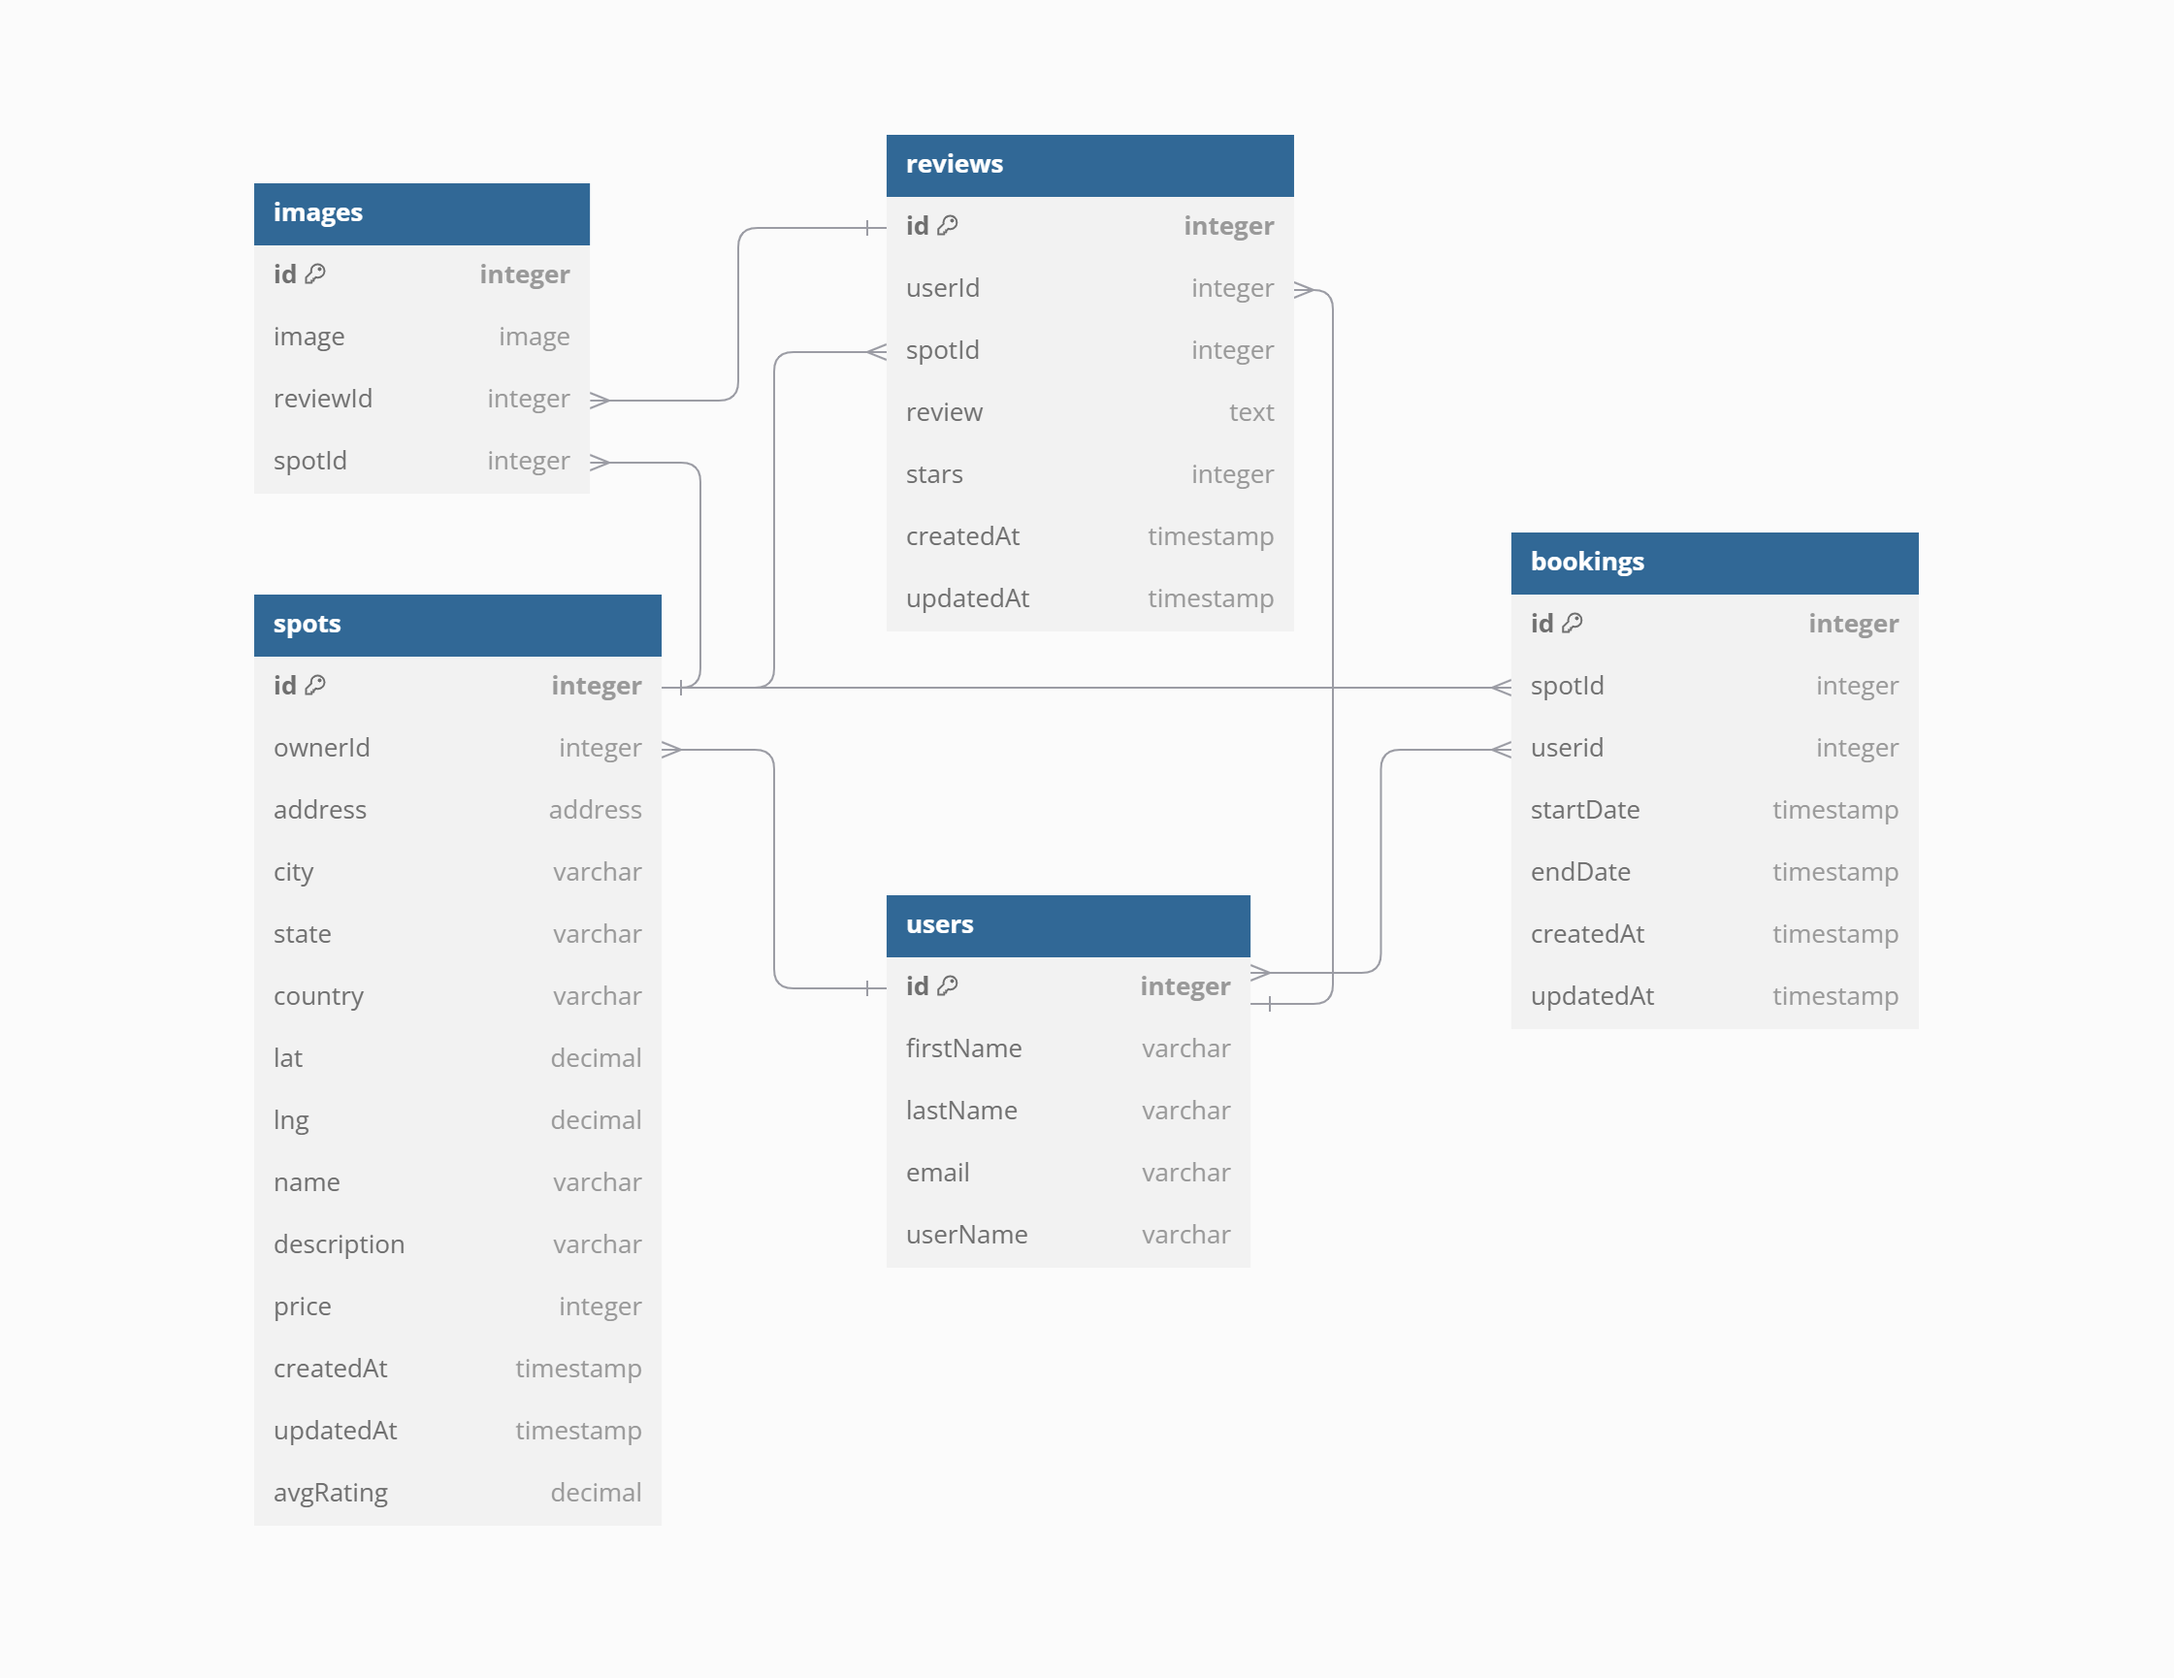
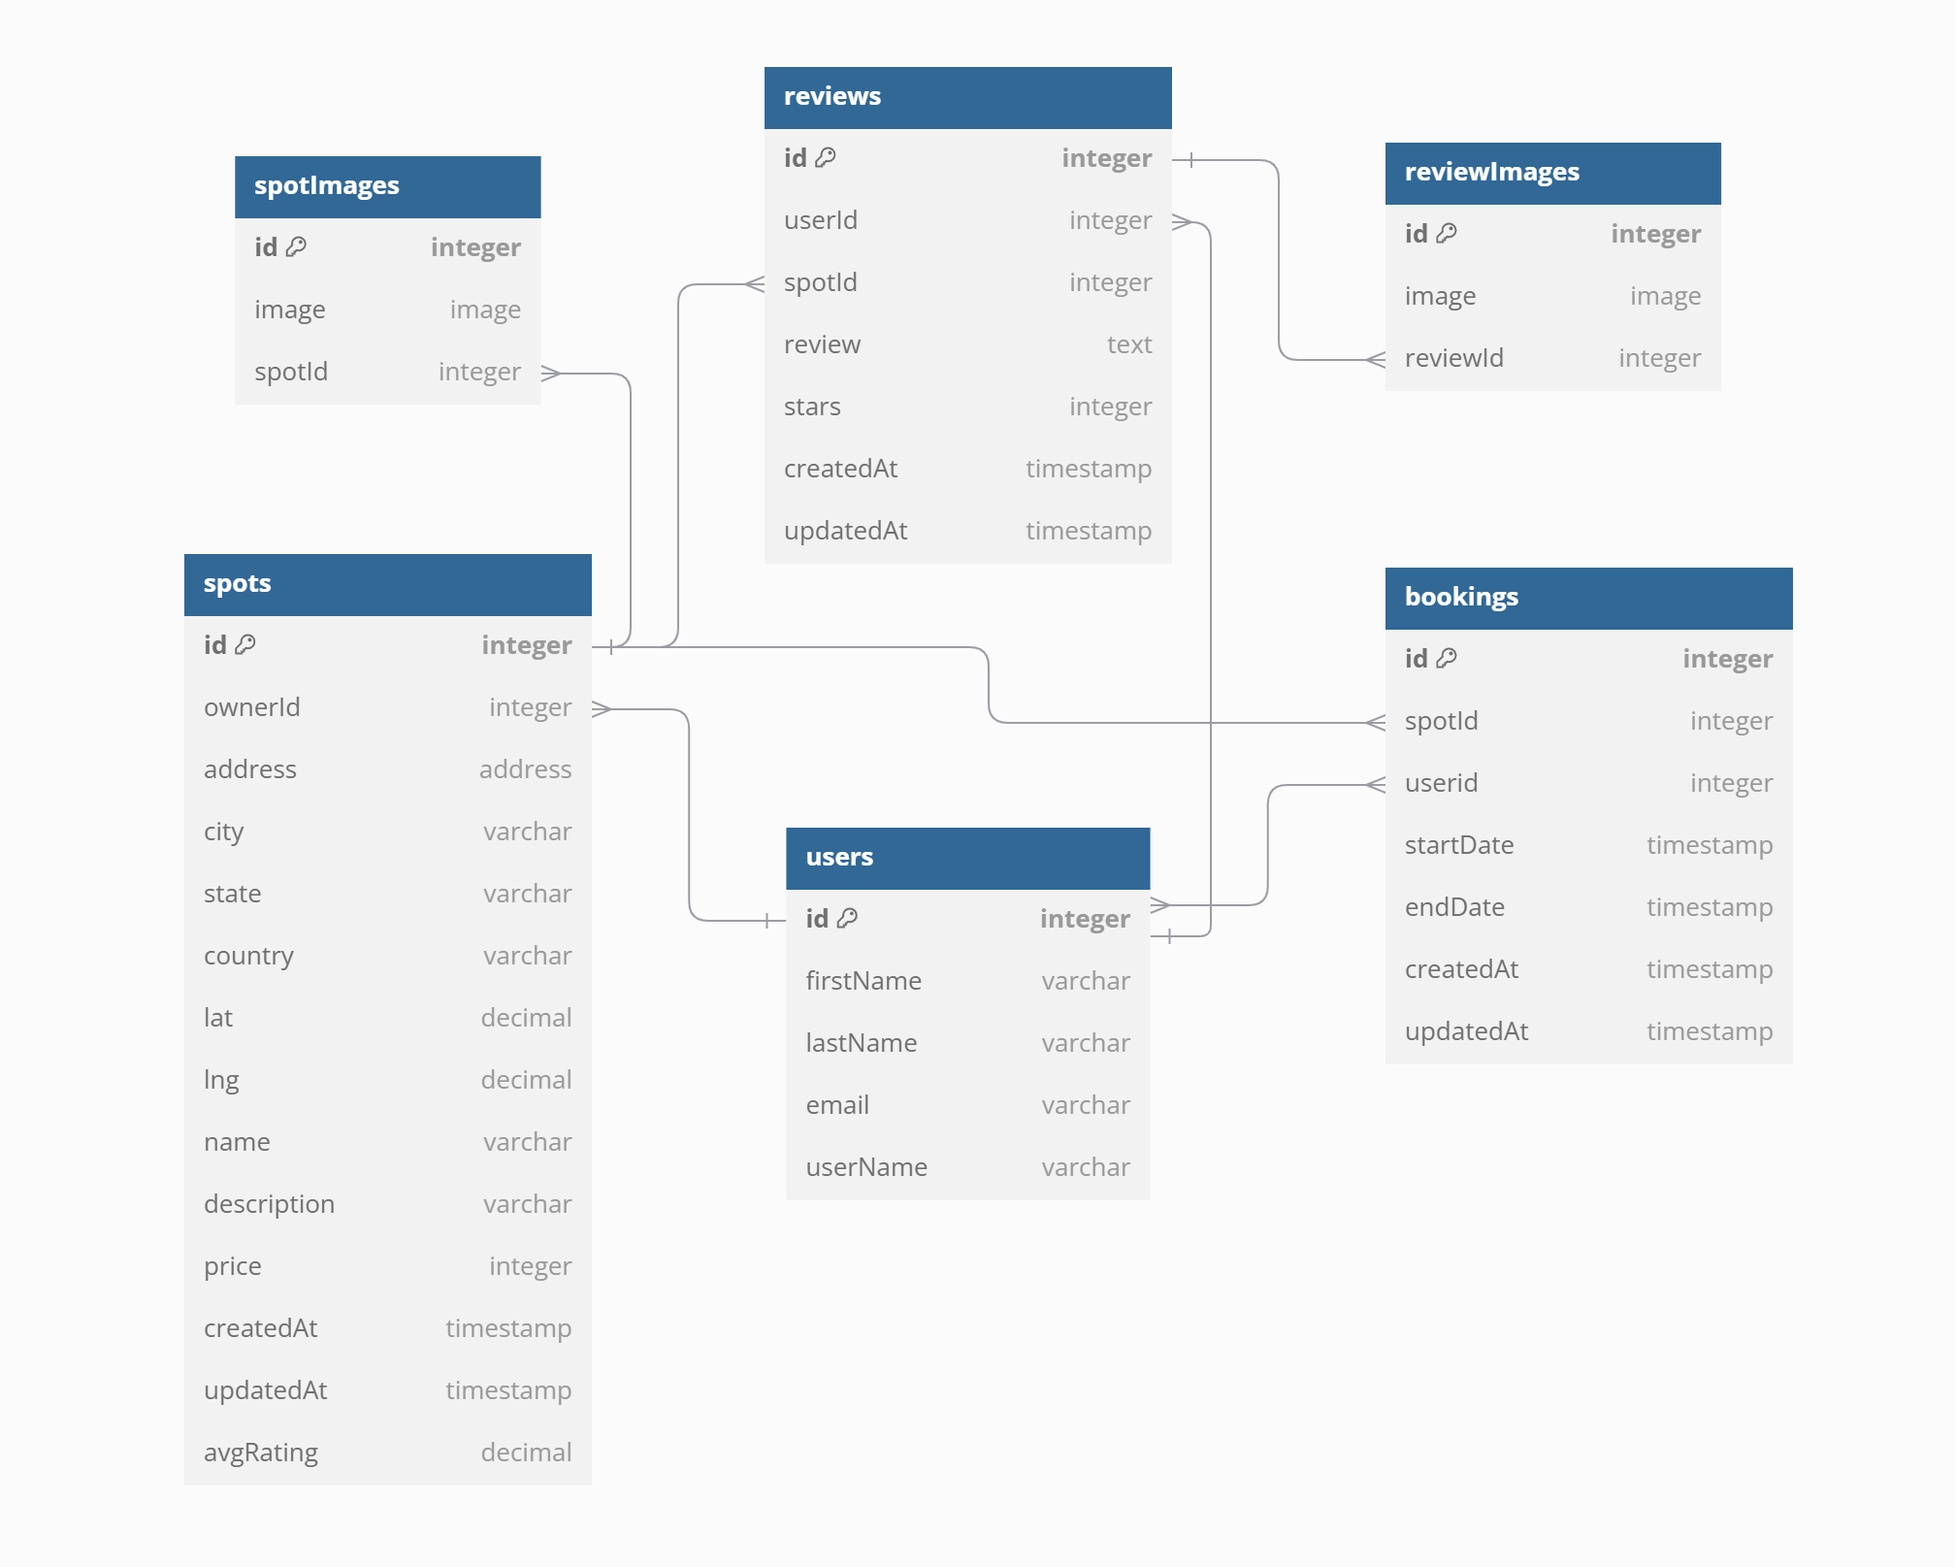
change the db schema and made some changes to the api doc to match the schema

diff --git a/README.md b/README.md
@@ -51,8 +51,8 @@ Returns the information about the current user that is logged in.
 
 * Require Authentication: false
 * Request
-  * Method: GET ?
-  * Route path: /users/:userId ?
+  * Method: GET
+  * Route path: /users/:userId
   * Body: none
 
 * Successful Response when there is a logged in user
@@ -92,8 +92,8 @@ information.
 
 * Require Authentication: false
 * Request
-  * Method: POST ?
-  * Route path: /login ?
+  * Method: POST
+  * Route path: /login
   * Headers:
     * Content-Type: application/json
   * Body:
@@ -158,8 +158,8 @@ user's information.
 
 * Require Authentication: false
 * Request
-  * Method: POST ?
-  * Route path: /signup ?
+  * Method: POST
+  * Route path: /signup
   * Headers:
     * Content-Type: application/json
   * Body:
@@ -234,8 +234,8 @@ Returns all the spots.
 
 * Require Authentication: false
 * Request
-  * Method: GET ?
-  * Route path: /spots ?
+  * Method: GET
+  * Route path: /spots
   * Body: none
 
 * Successful Response
@@ -274,8 +274,8 @@ Returns all the spots owned (created) by the current user.
 
 * Require Authentication: true
 * Request
-  * Method: GET ?
-  * Route path: /users/:userId/spots ?
+  * Method: GET
+  * Route path: /users/:userId/spots
   * Body: none
 
 * Successful Response
@@ -314,8 +314,8 @@ Returns the details of a spot specified by its id.
 
 * Require Authentication: false
 * Request
-  * Method: GET ?
-  * Route path: /spots/:spotId ?
+  * Method: GET
+  * Route path: /spots/:spotId
   * Body: none
 
 * Successful Response
@@ -379,8 +379,8 @@ Creates and returns a new spot.
 
 * Require Authentication: true
 * Request
-  * Method: POST ?
-  * Route path: /spots ?
+  * Method: POST
+  * Route path: /spots
   * Headers:
     * Content-Type: application/json
   * Body:
@@ -453,8 +453,8 @@ Create and return a new image for a spot specified by id.
 * Require Authentication: true
 * Require proper authorization: Spot must belong to the current user
 * Request
-  * Method: POST?
-  * Route path: /spots/:spotId/images ?
+  * Method: POST
+  * Route path: /spots/:spotId/spotImages
   * Headers:
     * Content-Type: application/json
   * Body:
@@ -499,8 +499,8 @@ Updates and returns an existing spot.
 * Require Authentication: true
 * Require proper authorization: Spot must belong to the current user
 * Request
-  * Method: PATCH ?
-  * Route path: /spots/:spotId?
+  * Method: PATCH
+  * Route path: /spots/:spotId
   * Headers:
     * Content-Type: application/json
   * Body:
@@ -585,8 +585,8 @@ Deletes an existing spot.
 * Require Authentication: true
 * Require proper authorization: Spot must belong to the current user
 * Request
-  * Method: DELETE ?
-  * Route path: /spots/:spotId ?
+  * Method: DELETE
+  * Route path: /spots/:spotId
   * Body: none
 
 * Successful Response
@@ -621,8 +621,8 @@ Returns all the reviews written by the current user.
 
 * Require Authentication: true
 * Request
-  * Method: GET ?
-  * Route path: /users/:userId/reviews ?
+  * Method: GET
+  * Route path: /users/:userId/reviews
   * Body: none
 
 * Successful Response
@@ -677,8 +677,8 @@ Returns all the reviews that belong to a spot specified by id.
 
 * Require Authentication: false
 * Request
-  * Method: GET ?
-  * Route path: /spots/:spotId/reviews?
+  * Method: GET
+  * Route path: /spots/:spotId/reviews
   * Body: none
 
 * Successful Response
@@ -732,8 +732,8 @@ Create and return a new review for a spot specified by id.
 
 * Require Authentication: true
 * Request
-  * Method: POST ?
-  * Route path: /spots/:spotId/reviews ?
+  * Method: POST
+  * Route path: /spots/:spotId/reviews
   * Headers:
     * Content-Type: application/json
   * Body:
@@ -810,8 +810,8 @@ Create and return a new image for a review specified by id.
 * Require Authentication: true
 * Require proper authorization: Review must belong to the current user
 * Request
-  * Method: POST ?
-  * Route path: /reviews/:reviewId/images ?
+  * Method: POST
+  * Route path: /reviews/:reviewId/reviewImages
   * Headers:
     * Content-Type: application/json
   * Body:
@@ -867,8 +867,8 @@ Update and return an existing review.
 * Require Authentication: true
 * Require proper authorization: Review must belong to the current user
 * Request
-  * Method: PUT ?
-  * Route path: /reviews/:reviewsId ?
+  * Method: PUT
+  * Route path: /reviews/:reviewsId
   * Headers:
     * Content-Type: application/json
   * Body:
@@ -933,8 +933,8 @@ Delete an existing review.
 * Require Authentication: true
 * Require proper authorization: Review must belong to the current user
 * Request
-  * Method: DELETE ?
-  * Route path: /reviews/:reviewId ?
+  * Method: DELETE
+  * Route path: /reviews/:reviewId
   * Body: none
 
 * Successful Response
@@ -969,8 +969,8 @@ Return all the bookings that the current user has made.
 
 * Require Authentication: true
 * Request
-  * Method: GET ?
-  * Route path: users/:userId/bookings ?
+  * Method: GET
+  * Route path: users/:userId/bookings
   * Body: none
 
 * Successful Response
@@ -1014,8 +1014,8 @@ Return all the bookings for a spot specified by id.
 
 * Require Authentication: true
 * Request
-  * Method: GET ?
-  * Route path: /spots/:spotId/bookings ?
+  * Method: GET
+  * Route path: /spots/:spotId/bookings
   * Body: none
 
 * Successful Response: If you ARE NOT the owner of the spot.
@@ -1082,8 +1082,8 @@ Create and return a new booking from a spot specified by id.
 * Require Authentication: true
 * Require proper authorization: Spot must NOT belong to the current user
 * Request
-  * Method: POST ?
-  * Route path: /spots/:spotId/bookings ?
+  * Method: POST
+  * Route path: /spots/:spotId/bookings
   * Headers:
     * Content-Type: application/json
   * Body:
@@ -1164,8 +1164,8 @@ Update and return an existing booking.
 * Require Authentication: true
 * Require proper authorization: Booking must belong to the current user
 * Request
-  * Method: PUT ?
-  * Route path: /bookings/:bookingId ?
+  * Method: PUT
+  * Route path: /bookings/:bookingId
   * Headers:
     * Content-Type: application/json
   * Body:
@@ -1259,8 +1259,8 @@ Delete an existing booking.
 * Require proper authorization: Booking must belong to the current user or the
   Spot must belong to the current user
 * Request
-  * Method: DELETE ?
-  * Route path: /bookings/:bookingId ?
+  * Method: DELETE
+  * Route path: /bookings/:bookingId
   * Body: none
 
 * Successful Response
@@ -1308,8 +1308,8 @@ Delete an existing image for a Spot.
 * Require Authentication: true
 * Require proper authorization: Spot must belong to the current user
 * Request
-  * Method: DELETE ?
-  * Route path: /spots/:spotId/images/:imageId ?
+  * Method: DELETE
+  * Route path: /spots/:spotId/spotImages/:spotImageId
   * Body: none
 
 * Successful Response
@@ -1343,8 +1343,8 @@ Delete an existing image for a Review.
 * Require Authentication: true
 * Require proper authorization: Review must belong to the current user
 * Request
-  * Method: DELETE  ?
-  * Route path: /reviews/:reviewsId/images/:imageId ?
+  * Method: DELETE
+  * Route path: /reviews/:reviewsId/reviewImages/:reviewImageId
   * Body: none
 
 * Successful Response
@@ -1377,8 +1377,8 @@ Return spots filtered by query parameters.
 
 * Require Authentication: false
 * Request
-  * Method: GET ?
-  * Route path: /spots ?
+  * Method: GET
+  * Route path: /spots
   * Query Parameters
     * page: integer, minimum: 1, default: 1
     * size: integer, minimum: 1, maximum: 20, default: 20
